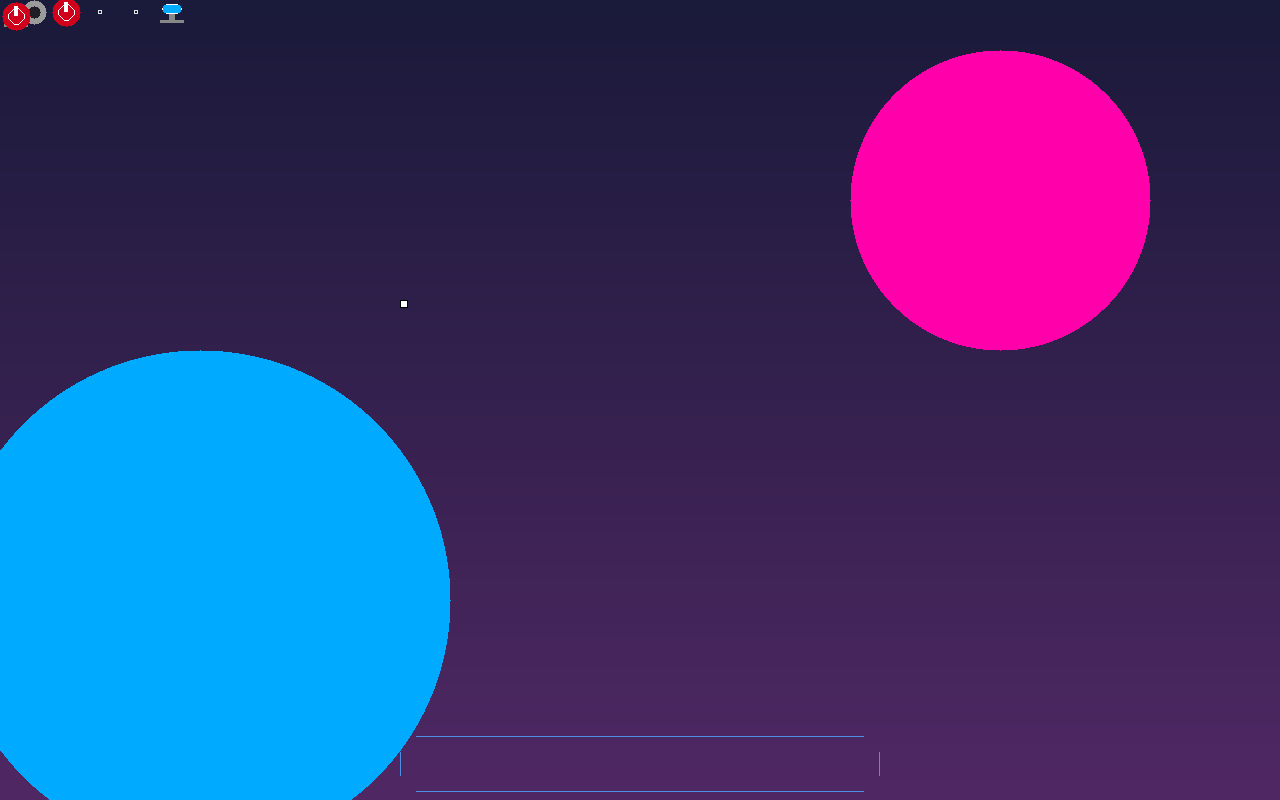
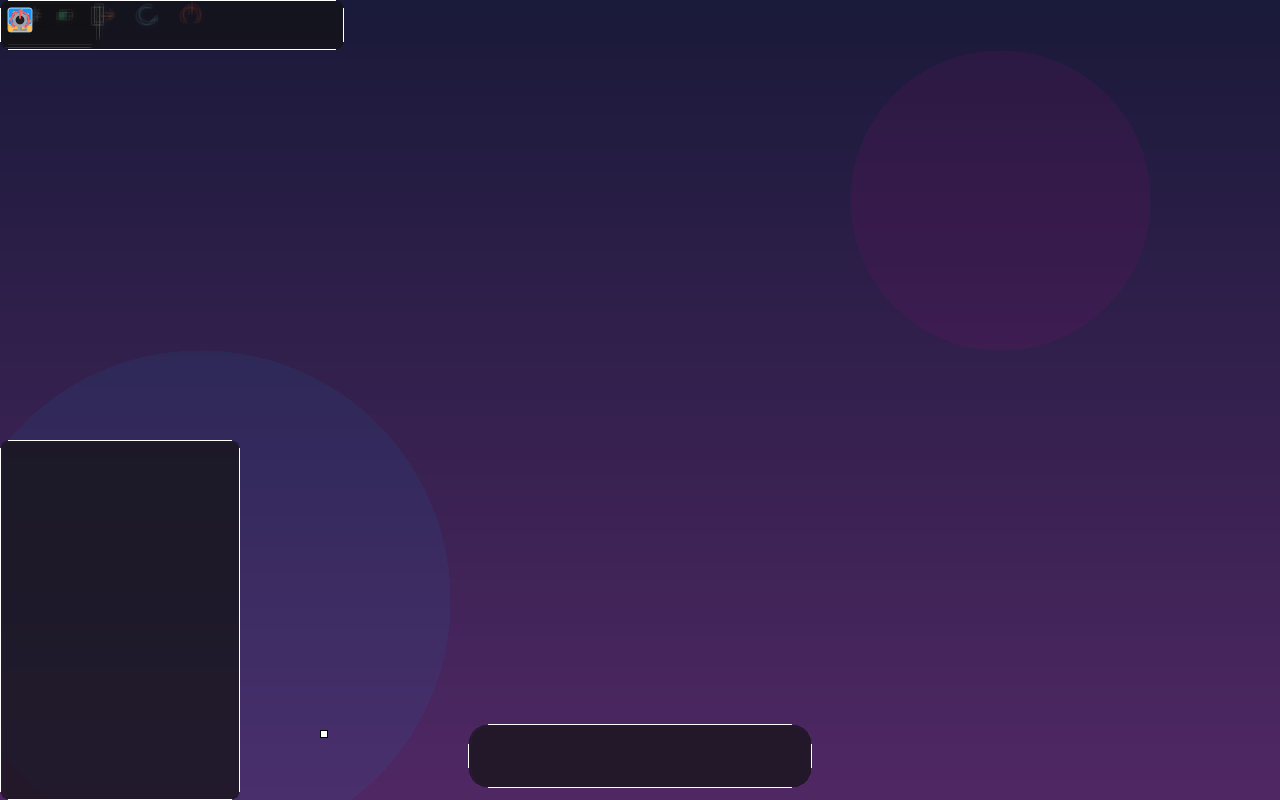
Refactor Font class to use dynamically allocated glyph alpha to fix kernel stack overflow GPF

Changed region(s): [[0.0, 0.4375, 0.6562, 1.0], [0.6562, 0.0625, 0.9062, 0.4375], [0.0, 0.0, 0.2812, 0.0625]]

diff --git a/kernel/graphics/font.cpp b/kernel/graphics/font.cpp
@@ -85,7 +85,7 @@ namespace acos::graphics {
 Font* Font::s_default_font = nullptr;
 
 Font::Font(const u8* data, usize size)
-    : m_valid(false), m_width(0), m_height(0), m_charsize(0), m_headersize(0), m_data(data), m_data_size(size), m_is_psf2(false), m_is_ttf(false)
+    : m_valid(false), m_width(0), m_height(0), m_charsize(0), m_headersize(0), m_data(data), m_data_size(size), m_is_psf2(false), m_is_ttf(false), m_glyph_alpha(nullptr)
 {
     if (!data || size < 4) return;
 
@@ -121,43 +121,46 @@ Font::Font(const u8* data, usize size)
         m_charsize = 16;
         m_headersize = 0;
 
-        for (int i = 0; i < 256 * 8 * 16; i++) {
-            m_glyph_alpha[i] = 0;
-        }
+        m_glyph_alpha = static_cast<u8*>(acos::memory::kmalloc(256 * 8 * 16));
+        if (m_glyph_alpha) {
+            for (int i = 0; i < 256 * 8 * 16; i++) {
+                m_glyph_alpha[i] = 0;
+            }
 
-        stbtt_fontinfo font_info;
-        if (stbtt_InitFont(&font_info, data, 0)) {
-            m_valid = true;
-            float scale = stbtt_ScaleForPixelHeight(&font_info, 16.0f);
-            int ascent, descent, lineGap;
-            stbtt_GetFontVMetrics(&font_info, &ascent, &descent, &lineGap);
-            int scaled_ascent = (int)(ascent * scale);
+            stbtt_fontinfo font_info;
+            if (stbtt_InitFont(&font_info, data, 0)) {
+                m_valid = true;
+                float scale = stbtt_ScaleForPixelHeight(&font_info, 16.0f);
+                int ascent, descent, lineGap;
+                stbtt_GetFontVMetrics(&font_info, &ascent, &descent, &lineGap);
+                int scaled_ascent = (int)(ascent * scale);
 
-            for (int c = 0; c < 256; c++) {
-                int x1, y1, x2, y2;
-                stbtt_GetCodepointBitmapBox(&font_info, c, scale, scale, &x1, &y1, &x2, &y2);
-                int gw = x2 - x1;
-                int gh = y2 - y1;
-                if (gw > 0 && gh > 0 && (gw * gh <= 1024)) {
-                    u8 glyph_pixels[1024] = {0};
-                    stbtt_MakeCodepointBitmap(&font_info, glyph_pixels, gw, gh, gw, scale, scale, c);
+                for (int c = 0; c < 256; c++) {
+                    int x1, y1, x2, y2;
+                    stbtt_GetCodepointBitmapBox(&font_info, c, scale, scale, &x1, &y1, &x2, &y2);
+                    int gw = x2 - x1;
+                    int gh = y2 - y1;
+                    if (gw > 0 && gh > 0 && (gw * gh <= 1024)) {
+                        u8 glyph_pixels[1024] = {0};
+                        stbtt_MakeCodepointBitmap(&font_info, glyph_pixels, gw, gh, gw, scale, scale, c);
 
-                    int baseline = scaled_ascent;
-                    int start_y = baseline + y1;
-                    int start_x = (8 - gw) / 2;
-                    if (start_x < 0) start_x = 0;
+                        int baseline = scaled_ascent;
+                        int start_y = baseline + y1;
+                        int start_x = (8 - gw) / 2;
+                        if (start_x < 0) start_x = 0;
 
-                    u8* cell = m_glyph_alpha + (c * 8 * 16);
-                    for (int gy = 0; gy < gh; gy++) {
-                        int py = start_y + gy;
-                        if (py < 0 || py >= 16) continue;
-                        for (int gx = 0; gx < gw; gx++) {
-                            int px = start_x + gx;
-                            if (px < 0 || px >= 8) continue;
-                            // Keep the raw stb_truetype coverage value (0-255)
-                            // instead of thresholding it to on/off. This is
-                            // what makes antialiased edges possible.
-                            cell[py * 8 + px] = glyph_pixels[gy * gw + gx];
+                        u8* cell = m_glyph_alpha + (c * 8 * 16);
+                        for (int gy = 0; gy < gh; gy++) {
+                            int py = start_y + gy;
+                            if (py < 0 || py >= 16) continue;
+                            for (int gx = 0; gx < gw; gx++) {
+                                int px = start_x + gx;
+                                if (px < 0 || px >= 8) continue;
+                                // Keep the raw stb_truetype coverage value (0-255)
+                                // instead of thresholding it to on/off. This is
+                                // what makes antialiased edges possible.
+                                cell[py * 8 + px] = glyph_pixels[gy * gw + gx];
+                            }
                         }
                     }
                 }
@@ -179,7 +182,7 @@ const u8* Font::get_glyph(char c) const {
 }
 
 const u8* Font::get_glyph_alpha(char c) const {
-    if (!m_valid || !m_is_ttf) return nullptr;
+    if (!m_valid || !m_is_ttf || !m_glyph_alpha) return nullptr;
     u32 index = static_cast<u8>(c);
     return m_glyph_alpha + (index * 8 * 16);
 }

diff --git a/userland/libacos/font.cpp b/userland/libacos/font.cpp
@@ -86,7 +86,7 @@ inline double stbtt_fmod(double x, double y) {
 namespace acos::graphics {
 
 Font::Font(const u8* data, usize size)
-    : m_valid(false), m_width(0), m_height(0), m_charsize(0), m_headersize(0), m_data(data), m_data_size(size), m_is_psf2(false), m_is_ttf(false)
+    : m_valid(false), m_width(0), m_height(0), m_charsize(0), m_headersize(0), m_data(data), m_data_size(size), m_is_psf2(false), m_is_ttf(false), m_glyph_alpha(nullptr)
 {
     if (!data || size < 4) return;
 
@@ -120,43 +120,46 @@ Font::Font(const u8* data, usize size)
         m_charsize = 16;
         m_headersize = 0;
 
-        for (int i = 0; i < 256 * 8 * 16; i++) {
-            m_glyph_alpha[i] = 0;
-        }
+        m_glyph_alpha = static_cast<u8*>(acos::memory::malloc(256 * 8 * 16));
+        if (m_glyph_alpha) {
+            for (int i = 0; i < 256 * 8 * 16; i++) {
+                m_glyph_alpha[i] = 0;
+            }
 
-        stbtt_fontinfo font_info;
-        if (stbtt_InitFont(&font_info, data, 0)) {
-            m_valid = true;
-            float scale = stbtt_ScaleForPixelHeight(&font_info, 16.0f);
-            int ascent, descent, lineGap;
-            stbtt_GetFontVMetrics(&font_info, &ascent, &descent, &lineGap);
-            int scaled_ascent = (int)(ascent * scale);
+            stbtt_fontinfo font_info;
+            if (stbtt_InitFont(&font_info, data, 0)) {
+                m_valid = true;
+                float scale = stbtt_ScaleForPixelHeight(&font_info, 16.0f);
+                int ascent, descent, lineGap;
+                stbtt_GetFontVMetrics(&font_info, &ascent, &descent, &lineGap);
+                int scaled_ascent = (int)(ascent * scale);
 
-            for (int c = 0; c < 256; c++) {
-                int x1, y1, x2, y2;
-                stbtt_GetCodepointBitmapBox(&font_info, c, scale, scale, &x1, &y1, &x2, &y2);
-                int gw = x2 - x1;
-                int gh = y2 - y1;
-                if (gw > 0 && gh > 0 && (gw * gh <= 1024)) {
-                    u8 glyph_pixels[1024] = {0};
-                    stbtt_MakeCodepointBitmap(&font_info, glyph_pixels, gw, gh, gw, scale, scale, c);
+                for (int c = 0; c < 256; c++) {
+                    int x1, y1, x2, y2;
+                    stbtt_GetCodepointBitmapBox(&font_info, c, scale, scale, &x1, &y1, &x2, &y2);
+                    int gw = x2 - x1;
+                    int gh = y2 - y1;
+                    if (gw > 0 && gh > 0 && (gw * gh <= 1024)) {
+                        u8 glyph_pixels[1024] = {0};
+                        stbtt_MakeCodepointBitmap(&font_info, glyph_pixels, gw, gh, gw, scale, scale, c);
 
-                    int baseline = scaled_ascent;
-                    int start_y = baseline + y1;
-                    int start_x = (8 - gw) / 2;
-                    if (start_x < 0) start_x = 0;
+                        int baseline = scaled_ascent;
+                        int start_y = baseline + y1;
+                        int start_x = (8 - gw) / 2;
+                        if (start_x < 0) start_x = 0;
 
-                    u8* cell = m_glyph_alpha + (c * 8 * 16);
-                    for (int gy = 0; gy < gh; gy++) {
-                        int py = start_y + gy;
-                        if (py < 0 || py >= 16) continue;
-                        for (int gx = 0; gx < gw; gx++) {
-                            int px = start_x + gx;
-                            if (px < 0 || px >= 8) continue;
-                            // Keep the raw coverage value (0-255) instead of
-                            // thresholding it to on/off, so edges can be
-                            // antialiased when drawn.
-                            cell[py * 8 + px] = glyph_pixels[gy * gw + gx];
+                        u8* cell = m_glyph_alpha + (c * 8 * 16);
+                        for (int gy = 0; gy < gh; gy++) {
+                            int py = start_y + gy;
+                            if (py < 0 || py >= 16) continue;
+                            for (int gx = 0; gx < gw; gx++) {
+                                int px = start_x + gx;
+                                if (px < 0 || px >= 8) continue;
+                                // Keep the raw coverage value (0-255) instead of
+                                // thresholding it to on/off, so edges can be
+                                // antialiased when drawn.
+                                cell[py * 8 + px] = glyph_pixels[gy * gw + gx];
+                            }
                         }
                     }
                 }
@@ -177,7 +180,7 @@ const u8* Font::get_glyph(char c) const {
 }
 
 const u8* Font::get_glyph_alpha(char c) const {
-    if (!m_valid || !m_is_ttf) return nullptr;
+    if (!m_valid || !m_is_ttf || !m_glyph_alpha) return nullptr;
     u32 index = static_cast<u8>(c);
     return m_glyph_alpha + (index * 8 * 16);
 }

diff --git a/kernel/graphics/font.h b/kernel/graphics/font.h
@@ -37,7 +37,7 @@ public:
         Right
     };
 
-    Font() : m_valid(false), m_width(0), m_height(0), m_charsize(0), m_headersize(0), m_data(nullptr), m_data_size(0), m_is_psf2(false) {}
+    Font() : m_valid(false), m_width(0), m_height(0), m_charsize(0), m_headersize(0), m_data(nullptr), m_data_size(0), m_is_psf2(false), m_is_ttf(false), m_glyph_alpha(nullptr) {}
     Font(const u8* data, usize size);
     Font(acos::Span<const u8> data) : Font(data.data(), data.size()) {}
 
@@ -78,7 +78,8 @@ private:
     // One 0-255 coverage byte per pixel, per glyph, in an 8x16 cell
     // (256 glyphs * 8 wide * 16 tall). Kept as real grayscale coverage
     // (not thresholded) so text can be antialiased when drawn.
-    u8 m_glyph_alpha[256 * 8 * 16];
+    // Dynamically allocated to prevent kernel stack overflows (32KiB).
+    u8* m_glyph_alpha;
 };
 
 } // namespace acos::graphics

diff --git a/userland/libacos/include/acos/font.h b/userland/libacos/include/acos/font.h
@@ -35,7 +35,7 @@ public:
         Right
     };
 
-    Font() : m_valid(false), m_width(0), m_height(0), m_charsize(0), m_headersize(0), m_data(nullptr), m_data_size(0), m_is_psf2(false) {}
+    Font() : m_valid(false), m_width(0), m_height(0), m_charsize(0), m_headersize(0), m_data(nullptr), m_data_size(0), m_is_psf2(false), m_is_ttf(false), m_glyph_alpha(nullptr) {}
     Font(const u8* data, usize size);
     Font(acos::Span<const u8> data) : Font(data.data(), data.size()) {}
 
@@ -63,7 +63,7 @@ private:
     bool m_is_ttf;
     // One 0-255 coverage byte per pixel, per glyph, in an 8x16 cell.
     // Real grayscale coverage (not thresholded) so text can be antialiased.
-    u8 m_glyph_alpha[256 * 8 * 16];
+    u8* m_glyph_alpha;
 };
 
 } // namespace acos::graphics
